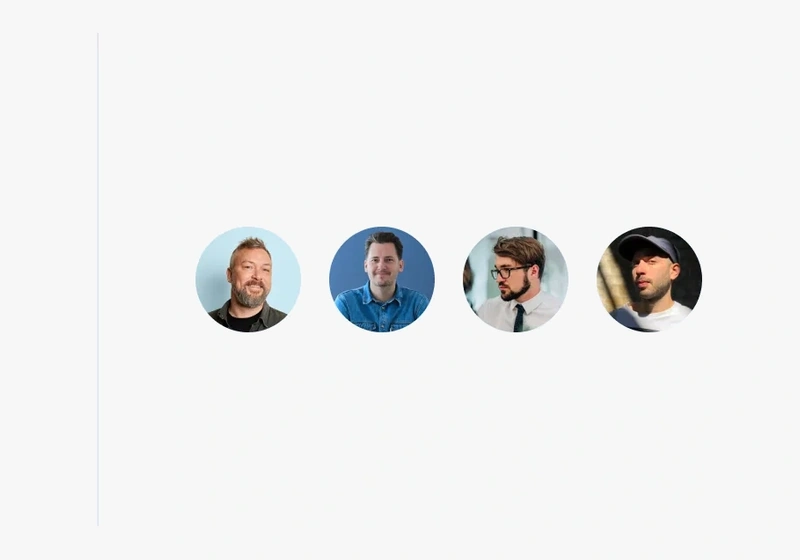
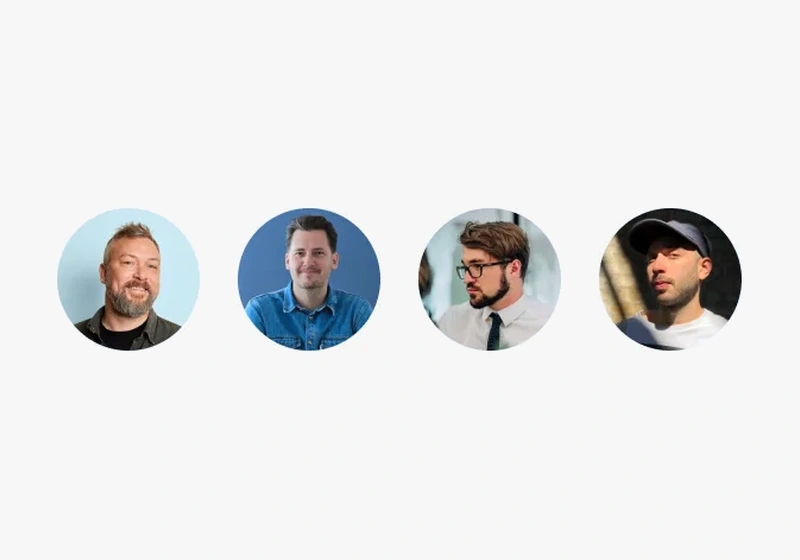
v2: the vertical rule in the journey cards, and the pill's first position
Both were measurement bugs, in the same sense.

The grey line down the left of every journey illustration came from my own
crop. The source exports carry a 2px border at columns 0 and 1; the pass that
trimmed each plate to its content read that border as artwork, so the bbox
started at x=0 and the border was carried into the middle of the card and
scaled up with everything else. The plates are rebuilt from the originals with
a 3px inset taken before measuring. All six now report no full-height column.

The carousel pill sat 6px left of the first dot and one card wide instead of
three. The geometry was right; the numbers it ran on were not. open() measures
while the panel is still transformed and, for a block that was display:none an
instant earlier, reports a row that has not been laid out — dispatching a
resize corrected it exactly. It now measures again on the settle transition,
when the sheet has actually come to rest. Verified across all rows on
Formalize and Maersk: pill left equals the first dot's left, width spans the
visible run.

Matas reports zeroes because its rows fit and their footers are hidden, which
is the intended behaviour, not a misplacement.

Changed region(s): [[0.0625, 0.3643, 0.9375, 0.6375]]

diff --git a/v2.js b/v2.js
@@ -532,6 +532,14 @@
         panel.style.transition = 'none';
         panel.style.transform = 'none';
         modal.classList.add('is-settled');   // arms the opaque backstop
+        /* Measure again once the sheet has actually come to rest. The pass at
+           the top of open() runs while the panel is still transformed and, on
+           a block that was display:none a moment earlier, reports a row that
+           has not been laid out — the pill came out 6px left of the first dot
+           and one card wide instead of three. Anything that changes a column
+           width after that (a lazily-loaded image) has its own listener; this
+           covers the open itself. */
+        modalCarousels.forEach(c => c.remeasure());
       };
       panel.addEventListener('transitionend', settle);
       closeBtn.focus({ preventScroll: true });

diff --git a/v2-maersk.html b/v2-maersk.html
@@ -12,7 +12,7 @@
 <meta name="description" content="Taking design from an afterthought to a strategic function across one of the world's largest logistics platforms.">
 <link rel="preconnect" href="https://api.fontshare.com" crossorigin>
 <link rel="stylesheet" href="https://api.fontshare.com/v2/css?f[]=general-sans@400,500,600&display=swap">
-<link rel="stylesheet" href="v2.css?v=194">
+<link rel="stylesheet" href="v2.css?v=196">
 </head>
 <body>
 <script>
@@ -163,6 +163,6 @@
   <a class="foot__mail rise" style="--d:140ms" href="mailto:hello@mikkelkoster.com">hello@mikkelkoster.com</a>
 </footer>
 
-<script src="v2.js?v=194"></script>
+<script src="v2.js?v=196"></script>
 </body>
 </html>

diff --git a/v2-matas.html b/v2-matas.html
@@ -12,7 +12,7 @@
 <meta name="description" content="Rebuilding Denmark's largest loyalty club around what members actually wanted.">
 <link rel="preconnect" href="https://api.fontshare.com" crossorigin>
 <link rel="stylesheet" href="https://api.fontshare.com/v2/css?f[]=general-sans@400,500,600&display=swap">
-<link rel="stylesheet" href="v2.css?v=194">
+<link rel="stylesheet" href="v2.css?v=196">
 </head>
 <body>
 <script>
@@ -164,6 +164,6 @@
   <a class="foot__mail rise" style="--d:140ms" href="mailto:hello@mikkelkoster.com">hello@mikkelkoster.com</a>
 </footer>
 
-<script src="v2.js?v=194"></script>
+<script src="v2.js?v=196"></script>
 </body>
 </html>

diff --git a/v2-formalize.html b/v2-formalize.html
@@ -12,7 +12,7 @@
 <meta name="description" content="Building the design function from zero at a hyper-growth compliance startup.">
 <link rel="preconnect" href="https://api.fontshare.com" crossorigin>
 <link rel="stylesheet" href="https://api.fontshare.com/v2/css?f[]=general-sans@400,500,600&display=swap">
-<link rel="stylesheet" href="v2.css?v=194">
+<link rel="stylesheet" href="v2.css?v=196">
 </head>
 <body>
 <script>
@@ -163,6 +163,6 @@
   <a class="foot__mail rise" style="--d:140ms" href="mailto:hello@mikkelkoster.com">hello@mikkelkoster.com</a>
 </footer>
 
-<script src="v2.js?v=194"></script>
+<script src="v2.js?v=196"></script>
 </body>
 </html>

diff --git a/v2.html b/v2.html
@@ -12,7 +12,7 @@
 <meta name="description" content="Product design and product strategy, hands-on. 15 years in design, 8 of them leading teams.">
 <link rel="preconnect" href="https://api.fontshare.com" crossorigin>
 <link rel="stylesheet" href="https://api.fontshare.com/v2/css?f[]=general-sans@400,500,600&display=swap">
-<link rel="stylesheet" href="v2.css?v=194">
+<link rel="stylesheet" href="v2.css?v=196">
 </head>
 <body>
 <script>
@@ -1646,6 +1646,6 @@
   </svg>
 </button>
 
-<script src="v2.js?v=194"></script>
+<script src="v2.js?v=196"></script>
 </body>
 </html>
